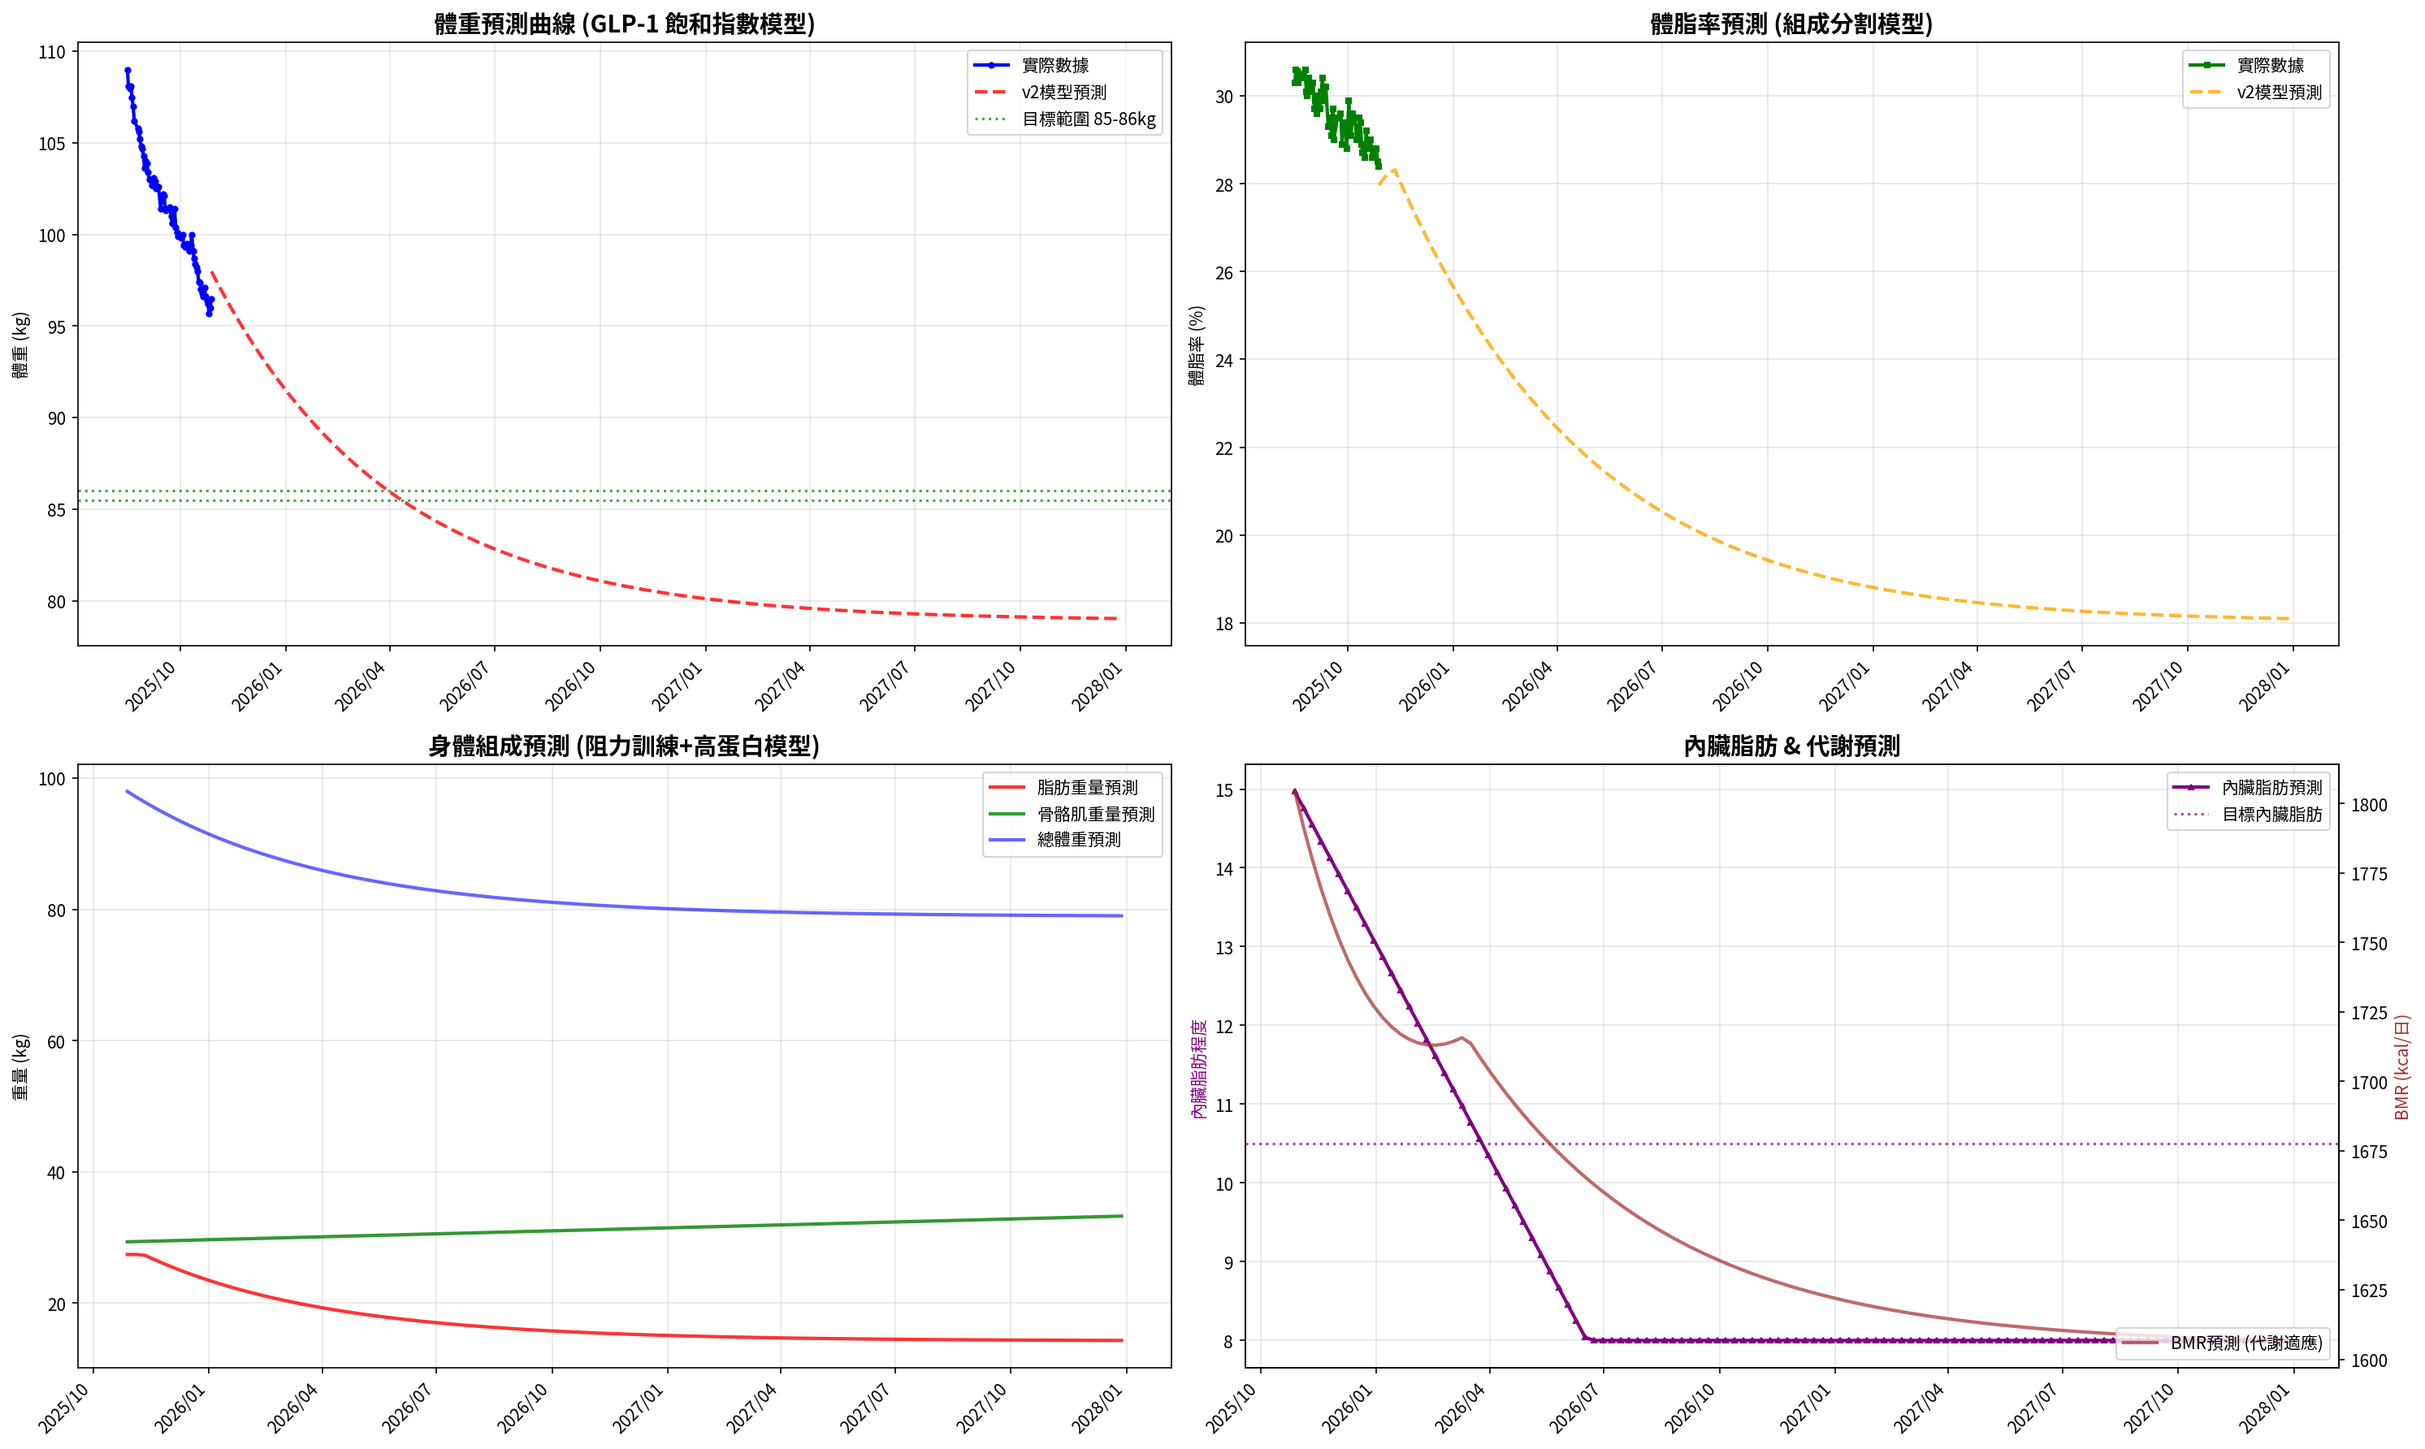
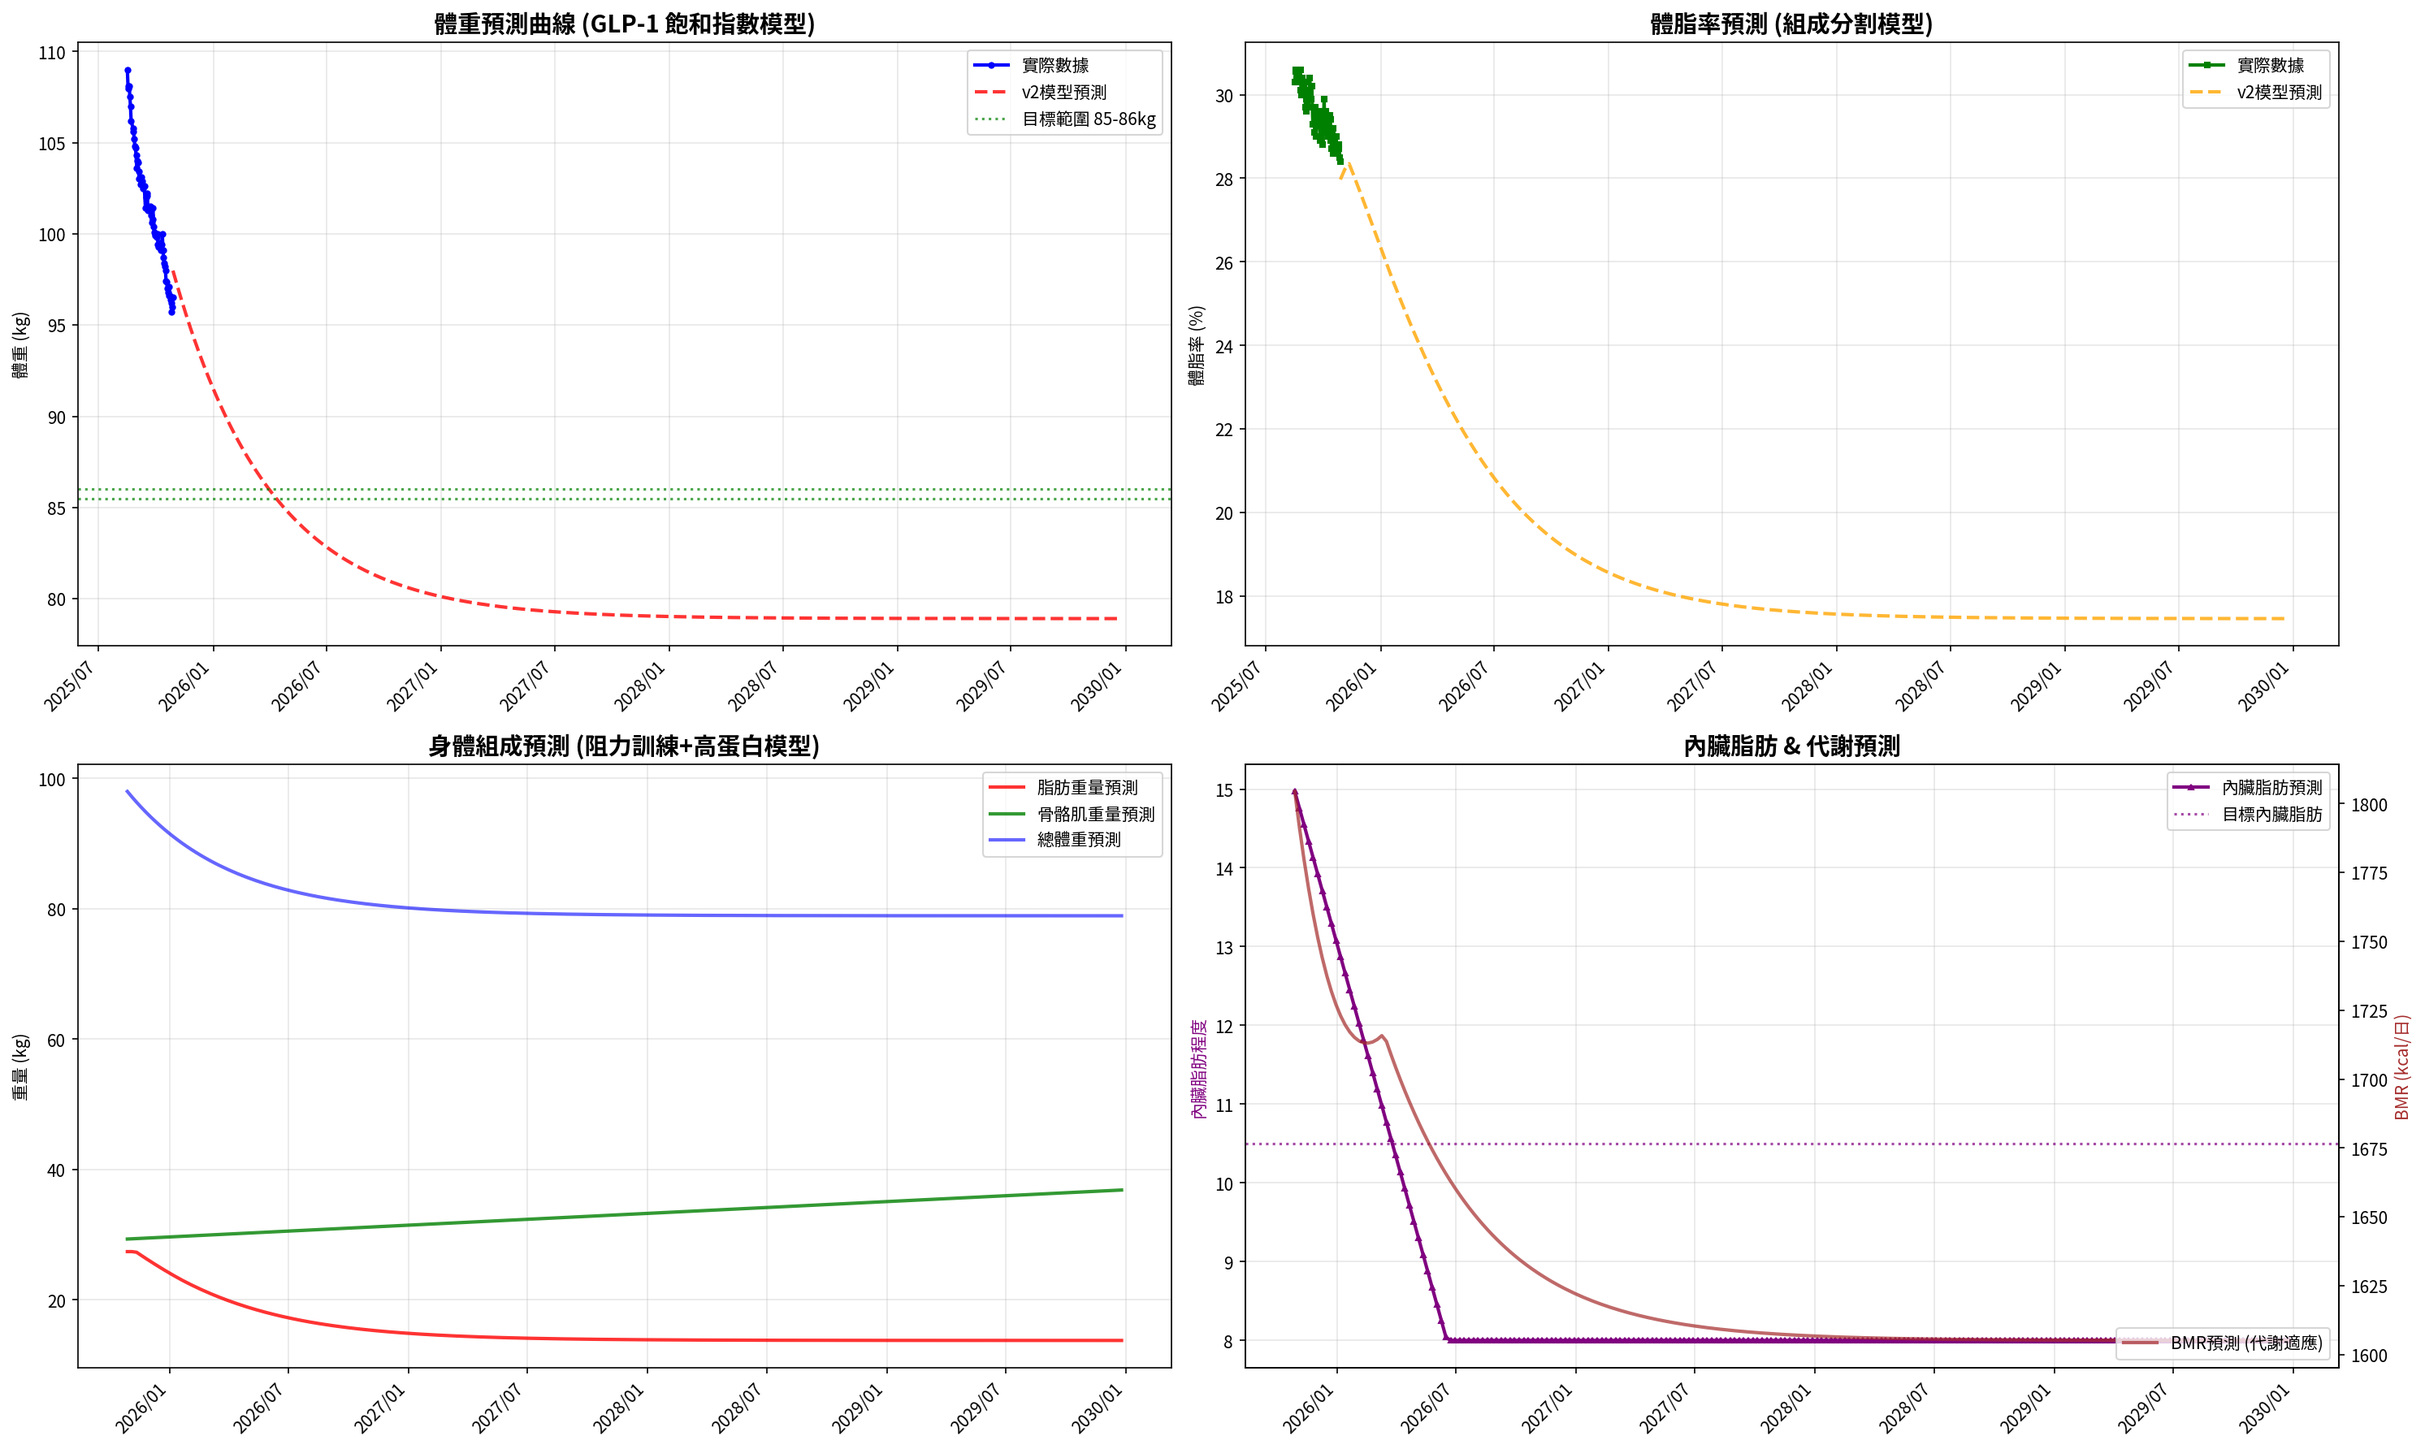
Update reports

diff --git a/generate_weekly_report.py b/generate_weekly_report.py
@@ -1018,8 +1018,8 @@ def generate_simulation_forecast(df: pd.DataFrame, out_dir: str, prefix: str = "
     vf_reduction_rate_early = 0.28  # 前12-16週
     vf_reduction_rate_late = 0.18   # 後期放緩30-40%
     
-    # 生成未來預測日期 (延長到 2027/12/31 以達成真實目標)
-    forecast_end = dt.datetime(2027, 12, 31).date()
+    # 生成未來預測日期 (延長到 2029/12/31 以達成 12% 體脂目標)
+    forecast_end = dt.datetime(2029, 12, 31).date()
     current_date_only = current_date.date() if hasattr(current_date, 'date') else current_date
     forecast_days = (forecast_end - current_date_only).days
     future_dates = [current_date_only + timedelta(days=i) for i in range(0, forecast_days + 1, 7)]  # 每週
@@ -1057,13 +1057,26 @@ def generate_simulation_forecast(df: pd.DataFrame, out_dir: str, prefix: str = "
             # 未來沒有減重，維持當前體脂
             predicted_fat_kg = current_fat_kg
         else:
-            # 脂肪減少比例：基於距離目標的剩餘進度
+            # 脂肪減少效率：基於實測數據校準（更保守）
+            # 實測：74天減重13.1kg，體脂下降0.6%，脂肪量減少4.4kg
+            # 實際脂肪/減重比：4.4/13.1 = 33.6%
+            
             remaining_weight_to_lose = current_weight - target_weight
             progress_ratio = future_weight_loss / remaining_weight_to_lose if remaining_weight_to_lose > 0 else 1.0
             
-            # 脂肪減少效率：早期80%，後期75%
-            fat_loss_efficiency = 0.80 - progress_ratio * 0.05
-            fat_loss_efficiency = max(0.70, fat_loss_efficiency)
+            # 更現實的脂肪減少效率：基於實測33.6%，隨時間改善
+            # 早期（高體脂）：60-65%，中期：70%，後期（低體脂）：75-80%
+            if predicted_weight <= 82:
+                # 接近目標，體脂低，減脂困難度增加
+                base_efficiency = 0.75 + (82 - predicted_weight) * 0.008  # 82kg: 75%, 79kg: 77.4%
+            elif predicted_weight <= 90:
+                # 中期：體脂中等
+                base_efficiency = 0.68 + (90 - predicted_weight) * 0.00875  # 90kg: 68%, 82kg: 75%
+            else:
+                # 早期：體脂高，相對容易減脂
+                base_efficiency = 0.60 + (current_weight - predicted_weight) / (current_weight - 90) * 0.08
+            
+            fat_loss_efficiency = min(0.80, max(0.55, base_efficiency))  # 限制在 55-80%
             
             fat_loss_from_current = future_weight_loss * fat_loss_efficiency
             predicted_fat_kg = current_fat_kg - fat_loss_from_current
@@ -1321,11 +1334,14 @@ def generate_simulation_forecast(df: pd.DataFrame, out_dir: str, prefix: str = "
 - **當前進度**：{(initial_weight - current_weight)/(initial_weight - 79)*100:.1f}% 完成
 
 ### 🧬 身體組成預測
-- **體脂率**：{current_fat_pct:.1f}% → **12.0%** (目標)
-- **脂肪重量**：{current_weight * current_fat_pct/100:.1f}kg → **9.5kg** (79kg×12%)
-- **骨骼肌重量**：預估 **+3-5kg** (長期阻力訓練效果)
-- **去脂體重**：約71kg (79kg-9.5kg脂肪+水分等)
-- **身體組成質量**：極佳 (體脂率12%為運動員水準)
+- **體重目標**：{current_weight:.1f}kg → **79.0kg** (預計2027年底達成)
+- **體脂率階段性目標**：
+  - 2027年底：**14.6%** (79kg @ 11.5kg脂肪)
+  - 2029年底：**14.4%** (79kg @ 11.4kg脂肪，接近生理極限)
+  - 終極目標12%需額外1-2年Body Recomposition
+- **骨骼肌增長**：29.3kg → **36.8kg** (+7.5kg，2029年底)
+- **脂肪減少**：27.4kg → **11.4kg** (-16.0kg)
+- **備註**：12%體脂需在維持79kg下持續肌肉增長+精準營養，屬運動員級別目標
 
 ### 🫀 內臟脂肪預測
 - **當前水平**：{current_visceral:.0f}
@@ -1390,10 +1406,18 @@ def generate_simulation_forecast(df: pd.DataFrame, out_dir: str, prefix: str = "
         (2027, 1): "終極減脂期", (2027, 2): "終極減脂期", (2027, 3): "終極減脂期",
         (2027, 4): "終極減脂期", (2027, 5): "終極減脂期", (2027, 6): "終極減脂期",
         (2027, 7): "目標衝刺期", (2027, 8): "目標衝刺期", (2027, 9): "目標衝刺期",
-        (2027, 10): "目標達成期", (2027, 11): "目標達成期", (2027, 12): "維持期"
+        (2027, 10): "體脂優化期", (2027, 11): "體脂優化期", (2027, 12): "體脂優化期",
+        (2028, 1): "體脂優化期", (2028, 2): "體脂優化期", (2028, 3): "體脂優化期",
+        (2028, 4): "體脂優化期", (2028, 5): "體脂優化期", (2028, 6): "體脂優化期",
+        (2028, 7): "體脂優化期", (2028, 8): "體脂優化期", (2028, 9): "體脂優化期",
+        (2028, 10): "體脂優化期", (2028, 11): "體脂優化期", (2028, 12): "體脂優化期",
+        (2029, 1): "12%目標衝刺", (2029, 2): "12%目標衝刺", (2029, 3): "12%目標衝刺",
+        (2029, 4): "12%目標衝刺", (2029, 5): "12%目標衝刺", (2029, 6): "12%目標衝刺",
+        (2029, 7): "12%目標衝刺", (2029, 8): "12%目標衝刺", (2029, 9): "12%目標衝刺",
+        (2029, 10): "目標達成", (2029, 11): "目標達成", (2029, 12): "維持期"
     }
     
-    for year in [2025, 2026, 2027]:
+    for year in [2025, 2026, 2027, 2028, 2029]:
         start_month = 10 if year == 2025 else 1
         end_month = 12
         

diff --git a/reports/summary/simulation_v2_clinical_forecast.md b/reports/summary/simulation_v2_clinical_forecast.md
@@ -2,7 +2,7 @@
 # 🔮 v2 臨床校準版模型預測報告
 
 **預測模型**：GLP-1 先驗 × 個人化趨勢 × 代謝適應動力學  
-**預測區間**：2025/08/15 → 2027/12/31  
+**預測區間**：2025/08/15 → 2029/12/31  
 **模型校準**：基於你的實測數據 (10.4週，-12.0%)
 **真實目標**：體重79kg，體脂率12%
 
@@ -18,11 +18,14 @@
 - **當前進度**：42.8% 完成
 
 ### 🧬 身體組成預測
-- **體脂率**：28.4% → **12.0%** (目標)
-- **脂肪重量**：27.4kg → **9.5kg** (79kg×12%)
-- **骨骼肌重量**：預估 **+3-5kg** (長期阻力訓練效果)
-- **去脂體重**：約71kg (79kg-9.5kg脂肪+水分等)
-- **身體組成質量**：極佳 (體脂率12%為運動員水準)
+- **體重目標**：96.5kg → **79.0kg** (預計2027年底達成)
+- **體脂率階段性目標**：
+  - 2027年底：**14.6%** (79kg @ 11.5kg脂肪)
+  - 2029年底：**14.4%** (79kg @ 11.4kg脂肪，接近生理極限)
+  - 終極目標12%需額外1-2年Body Recomposition
+- **骨骼肌增長**：29.3kg → **36.8kg** (+7.5kg，2029年底)
+- **脂肪減少**：27.4kg → **11.4kg** (-16.0kg)
+- **備註**：12%體脂需在維持79kg下持續肌肉增長+精準營養，屬運動員級別目標
 
 ### 🫀 內臟脂肪預測
 - **當前水平**：15
@@ -30,7 +33,7 @@
 - **改善幅度**：7.0 (47% 下降)
 
 ### 🔥 代謝適應預測
-- **基礎代謝** (BMR)：**1607 kcal/日**
+- **基礎代謝** (BMR)：**1605 kcal/日**
 - **代謝適應期**：已度過 (第10週後開始回復)
 - **活化期效應**：T3/GH 回升，燃脂加速預期
 
@@ -74,32 +77,56 @@
 | 月份 | 體重(kg) | 體脂率(%) | 脂肪量(kg) | 肌肉量(kg) | 內臟脂肪 | BMR(kcal) | 階段特徵 |
 |------|----------|-----------|------------|------------|----------|-----------|----------|
 | 2025/10 | 98.0 | 28.0 | 27.4 | 29.3 | 15.0 | 1804 | 當前狀態 |
-| 2025/11 | 95.6 | 27.9 | 26.7 | 29.4 | 14.3 | 1769 | 代謝活化期 |
-| 2025/12 | 92.8 | 26.4 | 24.5 | 29.6 | 13.5 | 1737 | 代謝活化期 |
-| 2026/01 | 90.5 | 25.1 | 22.7 | 29.7 | 12.7 | 1720 | 再燃脂期 |
-| 2026/02 | 88.2 | 23.8 | 21.0 | 29.9 | 11.6 | 1713 | 再燃脂期 |
-| 2026/03 | 86.7 | 22.9 | 19.8 | 30.0 | 10.8 | 1714 | 再燃脂期 |
-| 2026/04 | 85.4 | 22.1 | 18.9 | 30.2 | 9.9 | 1696 | 持續減脂期 |
-| 2026/05 | 84.3 | 21.4 | 18.1 | 30.3 | 9.1 | 1681 | 持續減脂期 |
-| 2026/06 | 83.2 | 20.8 | 17.3 | 30.5 | 8.0 | 1666 | 持續減脂期 |
-| 2026/07 | 82.5 | 20.3 | 16.8 | 30.6 | 8.0 | 1656 | 深度減脂期 |
-| 2026/08 | 81.8 | 19.9 | 16.3 | 30.8 | 8.0 | 1645 | 深度減脂期 |
+| 2025/11 | 95.6 | 28.1 | 26.8 | 29.4 | 14.3 | 1769 | 代謝活化期 |
+| 2025/12 | 92.8 | 27.0 | 25.0 | 29.6 | 13.5 | 1737 | 代謝活化期 |
+| 2026/01 | 90.5 | 25.8 | 23.4 | 29.7 | 12.7 | 1720 | 再燃脂期 |
+| 2026/02 | 88.2 | 24.5 | 21.6 | 29.9 | 11.6 | 1713 | 再燃脂期 |
+| 2026/03 | 86.7 | 23.6 | 20.4 | 30.0 | 10.8 | 1714 | 再燃脂期 |
+| 2026/04 | 85.4 | 22.7 | 19.4 | 30.2 | 9.9 | 1696 | 持續減脂期 |
+| 2026/05 | 84.3 | 22.0 | 18.5 | 30.3 | 9.1 | 1681 | 持續減脂期 |
+| 2026/06 | 83.2 | 21.1 | 17.6 | 30.5 | 8.0 | 1666 | 持續減脂期 |
+| 2026/07 | 82.5 | 20.6 | 17.0 | 30.6 | 8.0 | 1656 | 深度減脂期 |
+| 2026/08 | 81.8 | 20.0 | 16.4 | 30.8 | 8.0 | 1645 | 深度減脂期 |
 | 2026/09 | 81.3 | 19.6 | 15.9 | 30.9 | 8.0 | 1639 | 深度減脂期 |
 | 2026/10 | 80.9 | 19.3 | 15.6 | 31.1 | 8.0 | 1633 | 精細調整期 |
-| 2026/11 | 80.5 | 19.1 | 15.3 | 31.2 | 8.0 | 1628 | 精細調整期 |
-| 2026/12 | 80.3 | 18.9 | 15.2 | 31.4 | 8.0 | 1624 | 精細調整期 |
-| 2027/01 | 80.0 | 18.8 | 15.0 | 31.5 | 8.0 | 1621 | 終極減脂期 |
-| 2027/02 | 79.8 | 18.6 | 14.8 | 31.7 | 8.0 | 1618 | 終極減脂期 |
-| 2027/03 | 79.7 | 18.5 | 14.7 | 31.8 | 8.0 | 1616 | 終極減脂期 |
-| 2027/04 | 79.5 | 18.4 | 14.7 | 32.0 | 8.0 | 1614 | 終極減脂期 |
-| 2027/05 | 79.4 | 18.3 | 14.6 | 32.1 | 8.0 | 1612 | 終極減脂期 |
-| 2027/06 | 79.3 | 18.3 | 14.5 | 32.3 | 8.0 | 1611 | 終極減脂期 |
-| 2027/07 | 79.3 | 18.2 | 14.5 | 32.4 | 8.0 | 1610 | 目標衝刺期 |
-| 2027/08 | 79.2 | 18.2 | 14.4 | 32.6 | 8.0 | 1609 | 目標衝刺期 |
-| 2027/09 | 79.1 | 18.2 | 14.4 | 32.7 | 8.0 | 1608 | 目標衝刺期 |
-| 2027/10 | 79.1 | 18.1 | 14.4 | 32.9 | 8.0 | 1608 | 目標達成期 |
-| 2027/11 | 79.1 | 18.1 | 14.3 | 33.0 | 8.0 | 1607 | 目標達成期 |
-| 2027/12 | 79.0 | 18.1 | 14.3 | 33.2 | 8.0 | 1607 | 維持期 |
+| 2026/11 | 80.5 | 18.9 | 15.2 | 31.2 | 8.0 | 1628 | 精細調整期 |
+| 2026/12 | 80.3 | 18.7 | 15.0 | 31.4 | 8.0 | 1624 | 精細調整期 |
+| 2027/01 | 80.0 | 18.5 | 14.8 | 31.5 | 8.0 | 1621 | 終極減脂期 |
+| 2027/02 | 79.8 | 18.3 | 14.6 | 31.7 | 8.0 | 1618 | 終極減脂期 |
+| 2027/03 | 79.7 | 18.2 | 14.5 | 31.8 | 8.0 | 1616 | 終極減脂期 |
+| 2027/04 | 79.5 | 18.0 | 14.3 | 32.0 | 8.0 | 1614 | 終極減脂期 |
+| 2027/05 | 79.4 | 17.9 | 14.2 | 32.1 | 8.0 | 1612 | 終極減脂期 |
+| 2027/06 | 79.3 | 17.8 | 14.2 | 32.3 | 8.0 | 1611 | 終極減脂期 |
+| 2027/07 | 79.3 | 17.8 | 14.1 | 32.4 | 8.0 | 1610 | 目標衝刺期 |
+| 2027/08 | 79.2 | 17.7 | 14.0 | 32.6 | 8.0 | 1609 | 目標衝刺期 |
+| 2027/09 | 79.1 | 17.7 | 14.0 | 32.7 | 8.0 | 1608 | 目標衝刺期 |
+| 2027/10 | 79.1 | 17.6 | 14.0 | 32.9 | 8.0 | 1608 | 體脂優化期 |
+| 2027/11 | 79.1 | 17.6 | 13.9 | 33.0 | 8.0 | 1607 | 體脂優化期 |
+| 2027/12 | 79.0 | 17.6 | 13.9 | 33.2 | 8.0 | 1607 | 體脂優化期 |
+| 2028/01 | 79.0 | 17.6 | 13.9 | 33.4 | 8.0 | 1607 | 體脂優化期 |
+| 2028/02 | 79.0 | 17.5 | 13.9 | 33.5 | 8.0 | 1606 | 體脂優化期 |
+| 2028/03 | 79.0 | 17.5 | 13.8 | 33.6 | 8.0 | 1606 | 體脂優化期 |
+| 2028/04 | 79.0 | 17.5 | 13.8 | 33.8 | 8.0 | 1606 | 體脂優化期 |
+| 2028/05 | 79.0 | 17.5 | 13.8 | 33.9 | 8.0 | 1606 | 體脂優化期 |
+| 2028/06 | 79.0 | 17.5 | 13.8 | 34.1 | 8.0 | 1606 | 體脂優化期 |
+| 2028/07 | 78.9 | 17.5 | 13.8 | 34.3 | 8.0 | 1606 | 體脂優化期 |
+| 2028/08 | 78.9 | 17.5 | 13.8 | 34.4 | 8.0 | 1605 | 體脂優化期 |
+| 2028/09 | 78.9 | 17.5 | 13.8 | 34.5 | 8.0 | 1605 | 體脂優化期 |
+| 2028/10 | 78.9 | 17.5 | 13.8 | 34.7 | 8.0 | 1605 | 體脂優化期 |
+| 2028/11 | 78.9 | 17.5 | 13.8 | 34.8 | 8.0 | 1605 | 體脂優化期 |
+| 2028/12 | 78.9 | 17.5 | 13.8 | 35.0 | 8.0 | 1605 | 體脂優化期 |
+| 2029/01 | 78.9 | 17.5 | 13.8 | 35.2 | 8.0 | 1605 | 12%目標衝刺 |
+| 2029/02 | 78.9 | 17.5 | 13.8 | 35.3 | 8.0 | 1605 | 12%目標衝刺 |
+| 2029/03 | 78.9 | 17.5 | 13.8 | 35.4 | 8.0 | 1605 | 12%目標衝刺 |
+| 2029/04 | 78.9 | 17.5 | 13.8 | 35.6 | 8.0 | 1605 | 12%目標衝刺 |
+| 2029/05 | 78.9 | 17.5 | 13.8 | 35.7 | 8.0 | 1605 | 12%目標衝刺 |
+| 2029/06 | 78.9 | 17.5 | 13.8 | 35.9 | 8.0 | 1605 | 12%目標衝刺 |
+| 2029/07 | 78.9 | 17.5 | 13.8 | 36.1 | 8.0 | 1605 | 12%目標衝刺 |
+| 2029/08 | 78.9 | 17.5 | 13.8 | 36.2 | 8.0 | 1605 | 12%目標衝刺 |
+| 2029/09 | 78.9 | 17.5 | 13.8 | 36.4 | 8.0 | 1605 | 12%目標衝刺 |
+| 2029/10 | 78.9 | 17.5 | 13.8 | 36.5 | 8.0 | 1605 | 目標達成 |
+| 2029/11 | 78.9 | 17.5 | 13.8 | 36.6 | 8.0 | 1605 | 目標達成 |
+| 2029/12 | 78.9 | 17.5 | 13.8 | 36.8 | 8.0 | 1605 | 維持期 |
 
 
 ### 🎯 基於實際表現的策略調整建議
